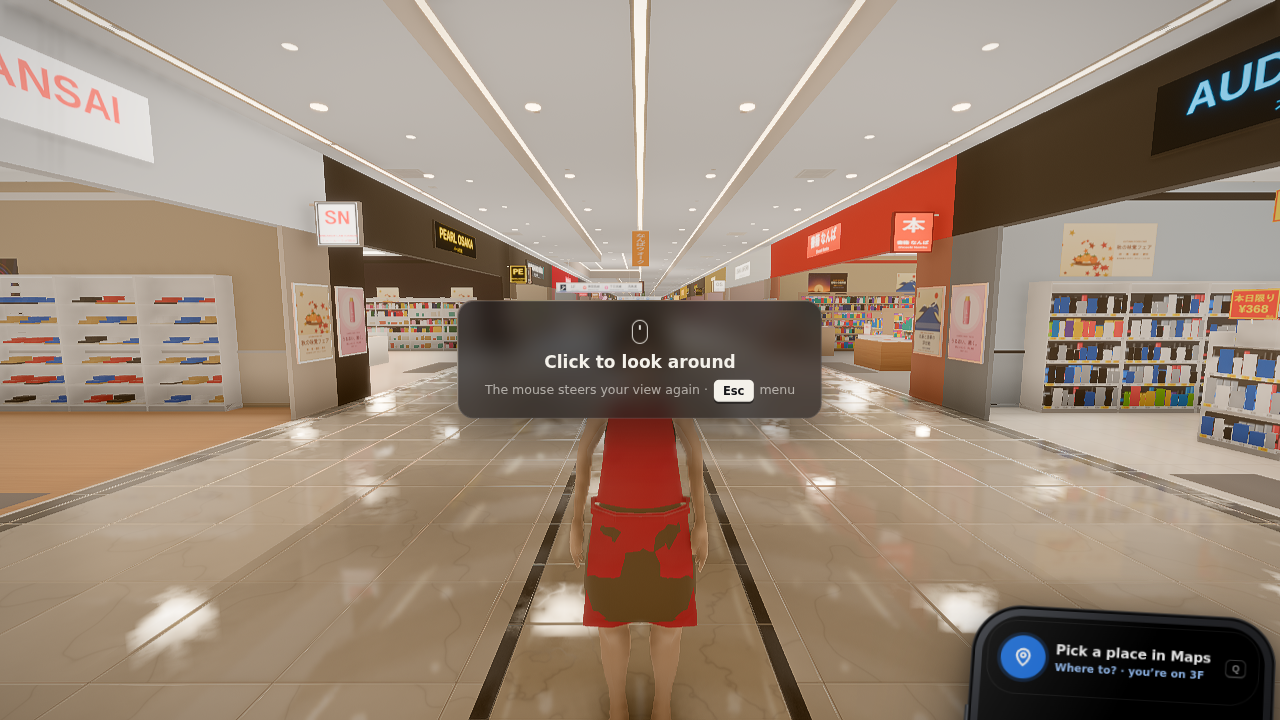
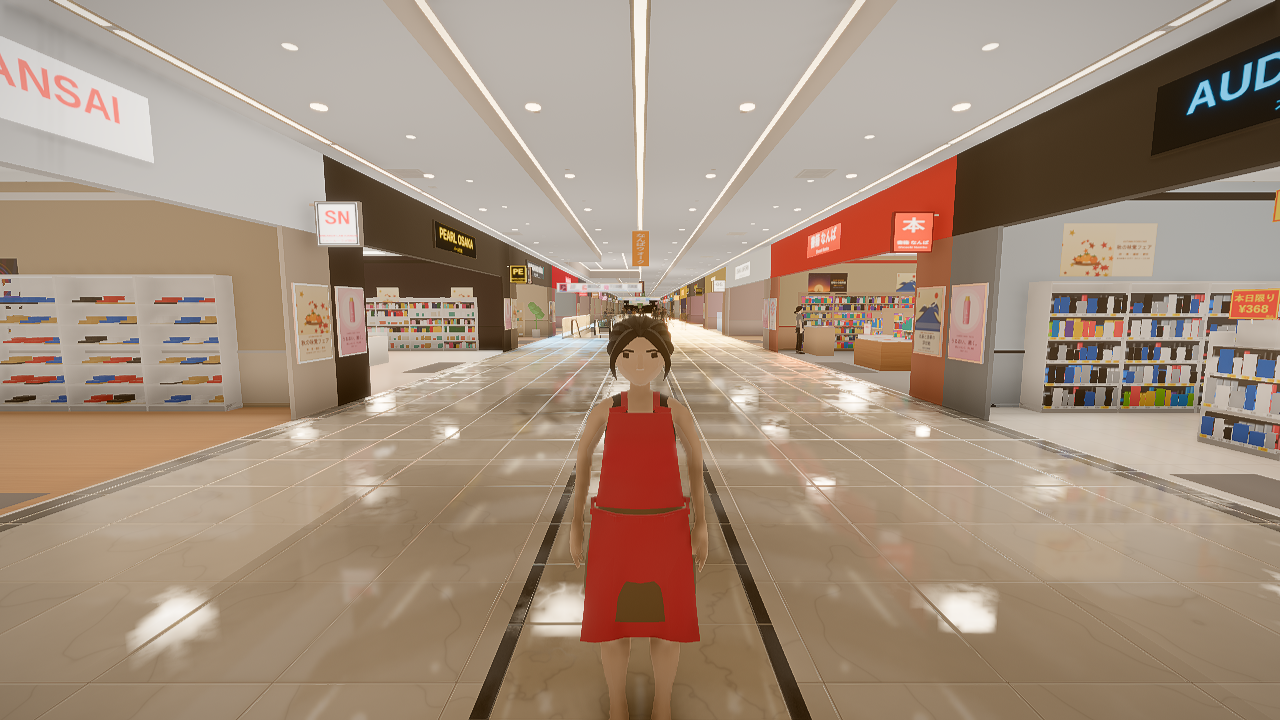
WIP v8: critic fixes (reveal hero beat, Maps arrived clear, DEMO.md), stack chip declutter
Claude-Session: https://claude.ai/code/session_01DFPWmVZjWP3RarZo2JLFjj

Changed region(s): [[0.3438, 0.3972, 0.6562, 0.6417], [0.7188, 0.825, 1.0, 1.0], [0.4375, 0.7028, 0.5625, 0.8861]]

diff --git a/namba-demo/js/npc/humans.js b/namba-demo/js/npc/humans.js
@@ -587,9 +587,9 @@ export class HumanLibrary {
       const yW = hips.y + 0.07, yHem = hips.y - 0.4, yTop = chest.y + 0.1;   // waist, hem (mid-thigh), bib top (below the collarbone)
       // foremost z at (x, y); the legs leave a gap at x = 0 below the crotch, so widen the search sideways until something is found
       const fz = (x, y, fb) => {
-        for (const dx of [0, 0.03, -0.03, 0.06, -0.06, 0.09, -0.09]) {
-          let r = null;   // the surface is sampled from mesh vertices (sparse on dresses / coats): take the foremost of three heights
-          for (const dy of [0, 0.045, -0.045]) { const q = body.front(x + dx, y + dy, null); if (q !== null && (r === null || q > r)) r = q; }
+        for (const dx of [0, 0.03, -0.03, 0.06, -0.06, 0.09, -0.09]) for (const lv of [[0], [0.045, -0.045], [0.09, -0.09]]) {
+          let r = null;   // the surface is sampled from mesh vertices (sparse on dresses / coats): the foremost one in a widening height window
+          for (const dy of lv) { const q = body.front(x + dx, y + dy, null); if (q !== null && (r === null || q > r)) r = q; }
           if (r !== null) return r;
         }
         return fb;
@@ -613,7 +613,7 @@ export class HumanLibrary {
         return zs;
       };
       const zb = panel('Chest', yTop, yW + 0.03, 0.105, 0.155, 0.016, 0.02, chest.z + chestZ, 6, 5);        // bib
-      const zk = panel('Hips', yW + 0.005, yHem, 0.168, 0.205, 0.022, 0.04, hips.z + hipZ, 8, 6);            // skirt (flared)
+      const zk = panel('Hips', yW + 0.005, yHem, 0.168, 0.205, 0.022, 0.03, hips.z + hipZ, 8, 6);            // skirt (flared)
       // waist tie: a band across the skirt top, side ties round the flanks to a back bow
       const bw = (x, y, o) => v3(x, y, fz(x, y, hips.z + hipZ) + o);
       const wb = yW - 0.012;

diff --git a/namba-demo/js/ui/phone/stack3d.js b/namba-demo/js/ui/phone/stack3d.js
@@ -582,6 +582,23 @@ export class Stack3D {
     for (const lv in this.levels) { const s = this.levels[lv].label; spx(s, s.userData.px[0], s.userData.px[1]); }
     this.markGroup.visible = !this.compact;          // escalator / canyon chips only in the full 3D view
     for (const s of this.markGroup.children) spx(s, s.userData.px[0], s.userData.px[1]);
+    // v8: declutter: a chip that would overlap the destination chip or an earlier chip on the route (the steps you
+    // reach first keep their label) hides for this frame, so the reveal never shows a pile of pills
+    if (this.markGroup.visible) {
+      const v = this._dcV || (this._dcV = new THREE.Vector3()), kept = [];
+      const rect = (s) => {
+        v.copy(s.position).project(this.camera);
+        const w = s.userData.px[0], h = s.userData.px[1], x = (v.x * 0.5 + 0.5) * W, y = (-v.y * 0.5 + 0.5) * H;
+        return [x - w * s.center.x, y - h * (1 - s.center.y), w, h];
+      };
+      const hit = (a, b) => a[0] < b[0] + b[2] + 4 && b[0] < a[0] + a[2] + 4 && a[1] < b[1] + b[3] + 3 && b[1] < a[1] + a[3] + 3;
+      if (this.dest && this.destLabel && this.destLabel.visible) kept.push(rect(this.destLabel));
+      for (const s of this.markGroup.children) {
+        const r = rect(s);
+        s.visible = !kept.some(k => hit(r, k));
+        if (s.visible) kept.push(r);
+      }
+    }
     this.ribCore.uniforms.uTime.value = this.ribGlow.uniforms.uTime.value = this.time;
     this.bgMat.uniforms.uTime.value = this.time;
   }

diff --git a/namba-demo/notes/v8-critique.md b/namba-demo/notes/v8-critique.md
@@ -28,7 +28,7 @@ Reroutes: 18 and 9 per km, about 5 "Recalculating…" in a 3-minute Maps phase. 
 The tutorial pick worked in both runs ("Pick a place in Maps" → 1 → Café Mitsubachi, `nav:destination` app=maps), and so
 did the gate step and the café order. The end card is sane (`c8n-14-endcard.png`).
 
-`loadprobe` / `mouseshot`: see the report (run last, on the final tree).
+`loadprobe` on the final tree: `READY 227.1s []`. The machine was at load average ~15 from other agents' browsers, and the v7 baseline was 46 s unloaded. `mouseshot` **did not finish**: it hit my 700 s timeout under that load. My edits don't touch its paths (pause menu, chip), and the Fixes agent's v8 run passed with errors `[]`, but the lead should rerun it before deploy.
 
 ## Per item
 
